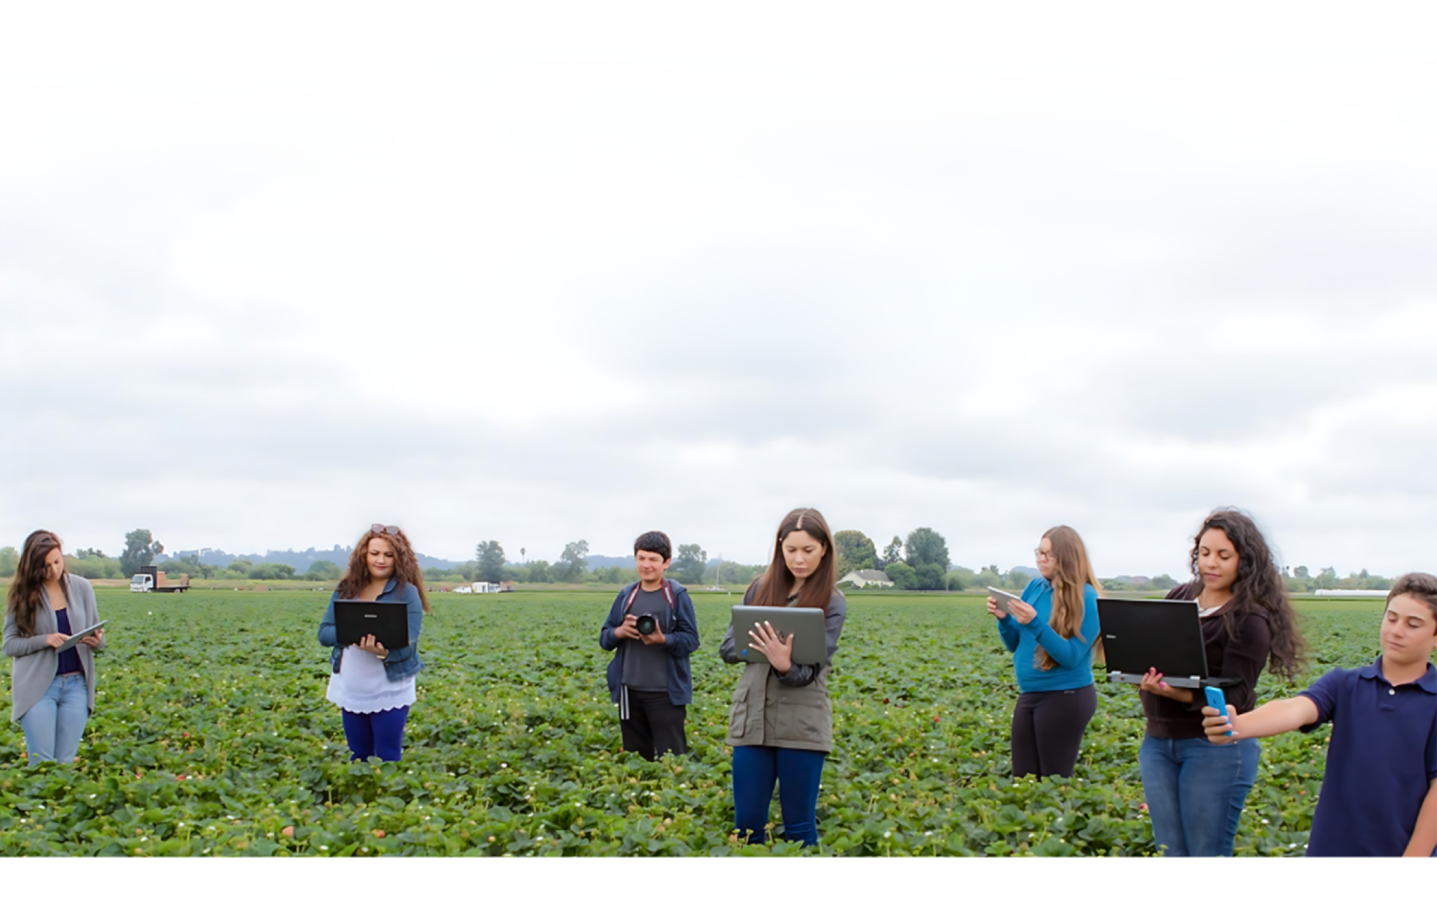
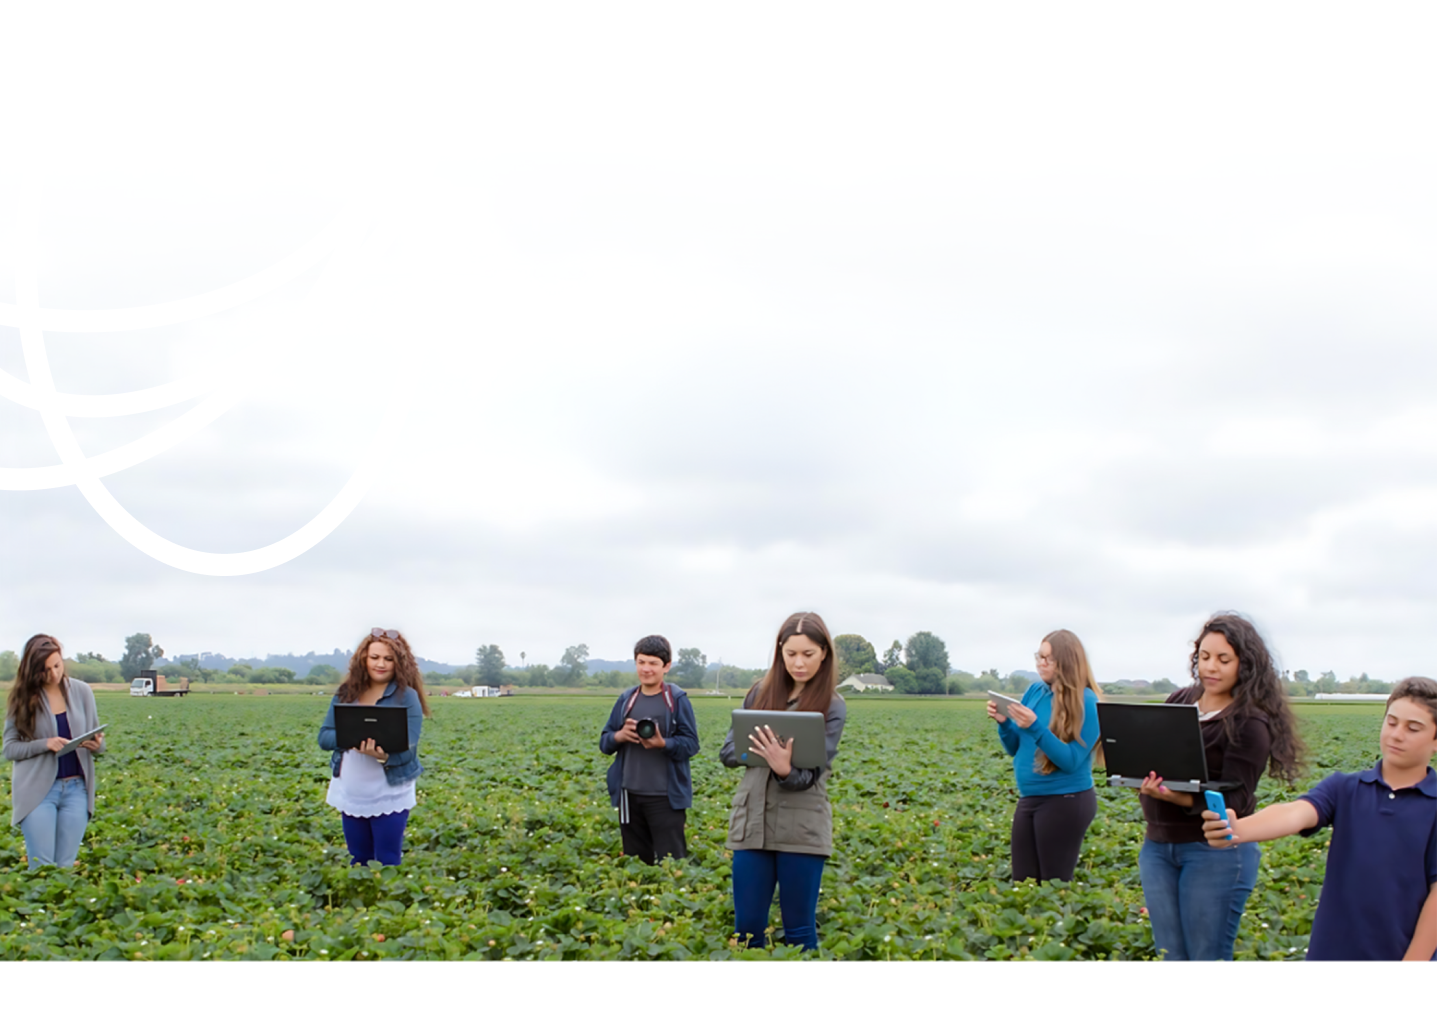
feat(landing): created landing page/styling

diff --git a/style/styles.css b/style/styles.css
@@ -1,0 +1,78 @@
+/* Fonts */
+@font-face {
+    font-family: Lato-Bold;
+    src: url(../assets/Fonts/Lato-Bold.ttf);
+}
+
+@font-face {
+    font-family: Lato-Regular;
+    src: url(../assets/Fonts/Lato-Regular.ttf);
+}
+/* End of Fonts */
+
+html, body {
+    height: 100%;
+    margin: 0;
+    background-color: white;
+}
+
+.wrapper {
+    display: flex;
+    flex-direction: column;
+    height: 100vh;
+    justify-content: space-between;
+}
+
+.bizzNESTLogoStyle{
+    display: flex;
+    justify-content: center;
+    padding-top: 100px;
+}
+
+.landingBackgroundImage {
+    background: url(../assets/HomePageBackground.png) no-repeat center center fixed;
+    background-size: cover;
+    flex-grow: 1;
+}
+
+.bizzNESTHeader{
+    text-align: center;
+    font-family: Lato-Bold;
+    font-size: 60px;
+    margin-top: 125px;
+    margin-bottom: 15px;
+}
+
+.bizzNESTSubText{
+    text-align: center;
+    font-family: Lato-Regular;
+    font-size: 20px;
+    margin: 0px;
+}
+.buttonContainer{
+    display: flex;
+    justify-content: center;
+    margin-top: 60px;
+}
+
+.buttonMainStyle{
+    padding: 30px 65px;
+    background-color: #BA2C8E;
+    color: white;
+    font-family: Lato-Bold;
+    border: none;
+    font-size: 27px;
+    border-radius: 25px;
+    box-shadow: 0px 4px 4px rgba(0, 0, 0, 0.50);
+    cursor: pointer;
+}
+.buttonMainStyle:hover{
+    background-color: #d12d9d;
+}
+
+.footerContainer {
+    background-color: white;
+    padding: 27px 50px;
+}
+
+

diff --git a/index.html b/index.html
@@ -1,14 +1,36 @@
 <!DOCTYPE html>
 <html lang="en">
+
 <head>
     <meta charset="UTF-8">
     <meta name="viewport" content="width=device-width, initial-scale=1.0">
     <title>bizzNEST Hub</title>
     <link rel="stylesheet" href="./style/styles.css">
 </head>
-<body>
+
+<body class="wrapper">
+    <div class="landingBackgroundImage">
+            <div class="bizzNESTLogoStyle">
+                <img src="./assets/bizzNESTLogo.png" alt="bizzNESTLogo">
+            </div>
     
+            <div>
+                <p class="bizzNESTHeader">Welcome to bizzNEST Hub</p>
+                <p class="bizzNESTSubText">Connect with interns across different departments and cities</p>
+            </div>
     
+            <div class="buttonContainer">
+                <button class="buttonMainStyle">
+                    Start Pairing
+                </button>
+            </div>
+    </div>
+    
+    <div class="footerContainer">
+        testing
+    </div>
+
     <script src="./scripts/app.js"></script>
 </body>
+
 </html>
